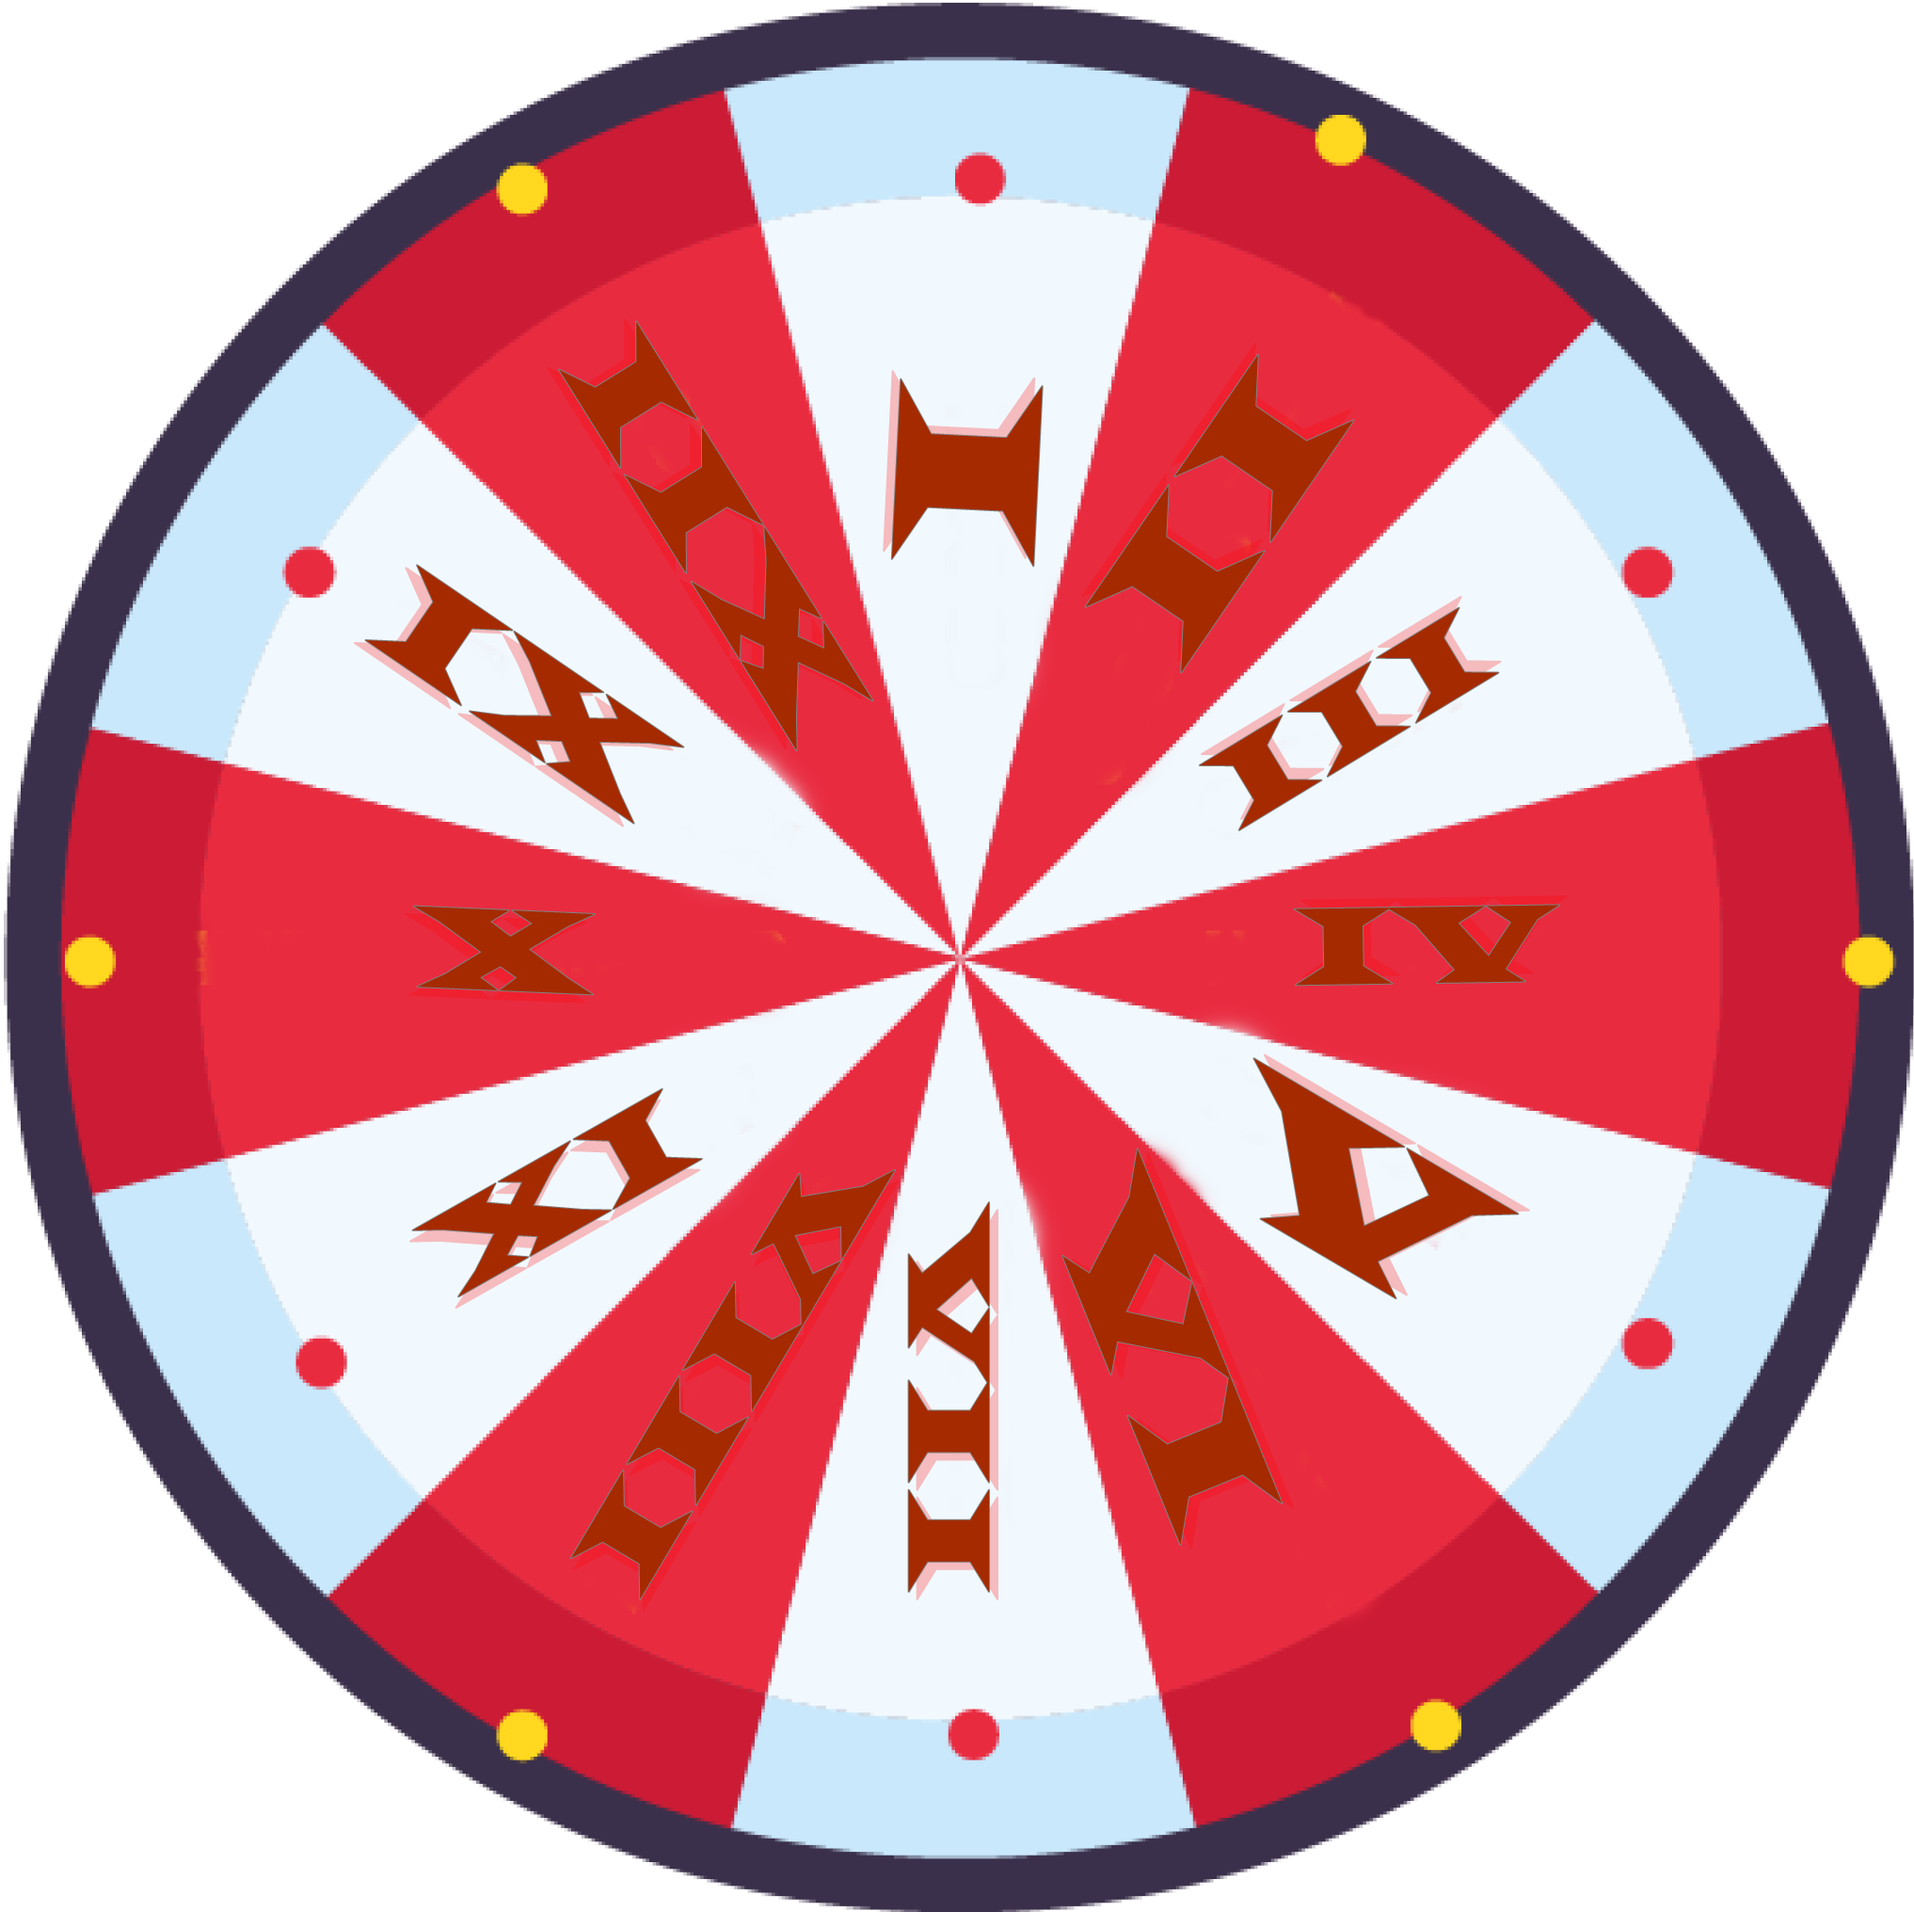
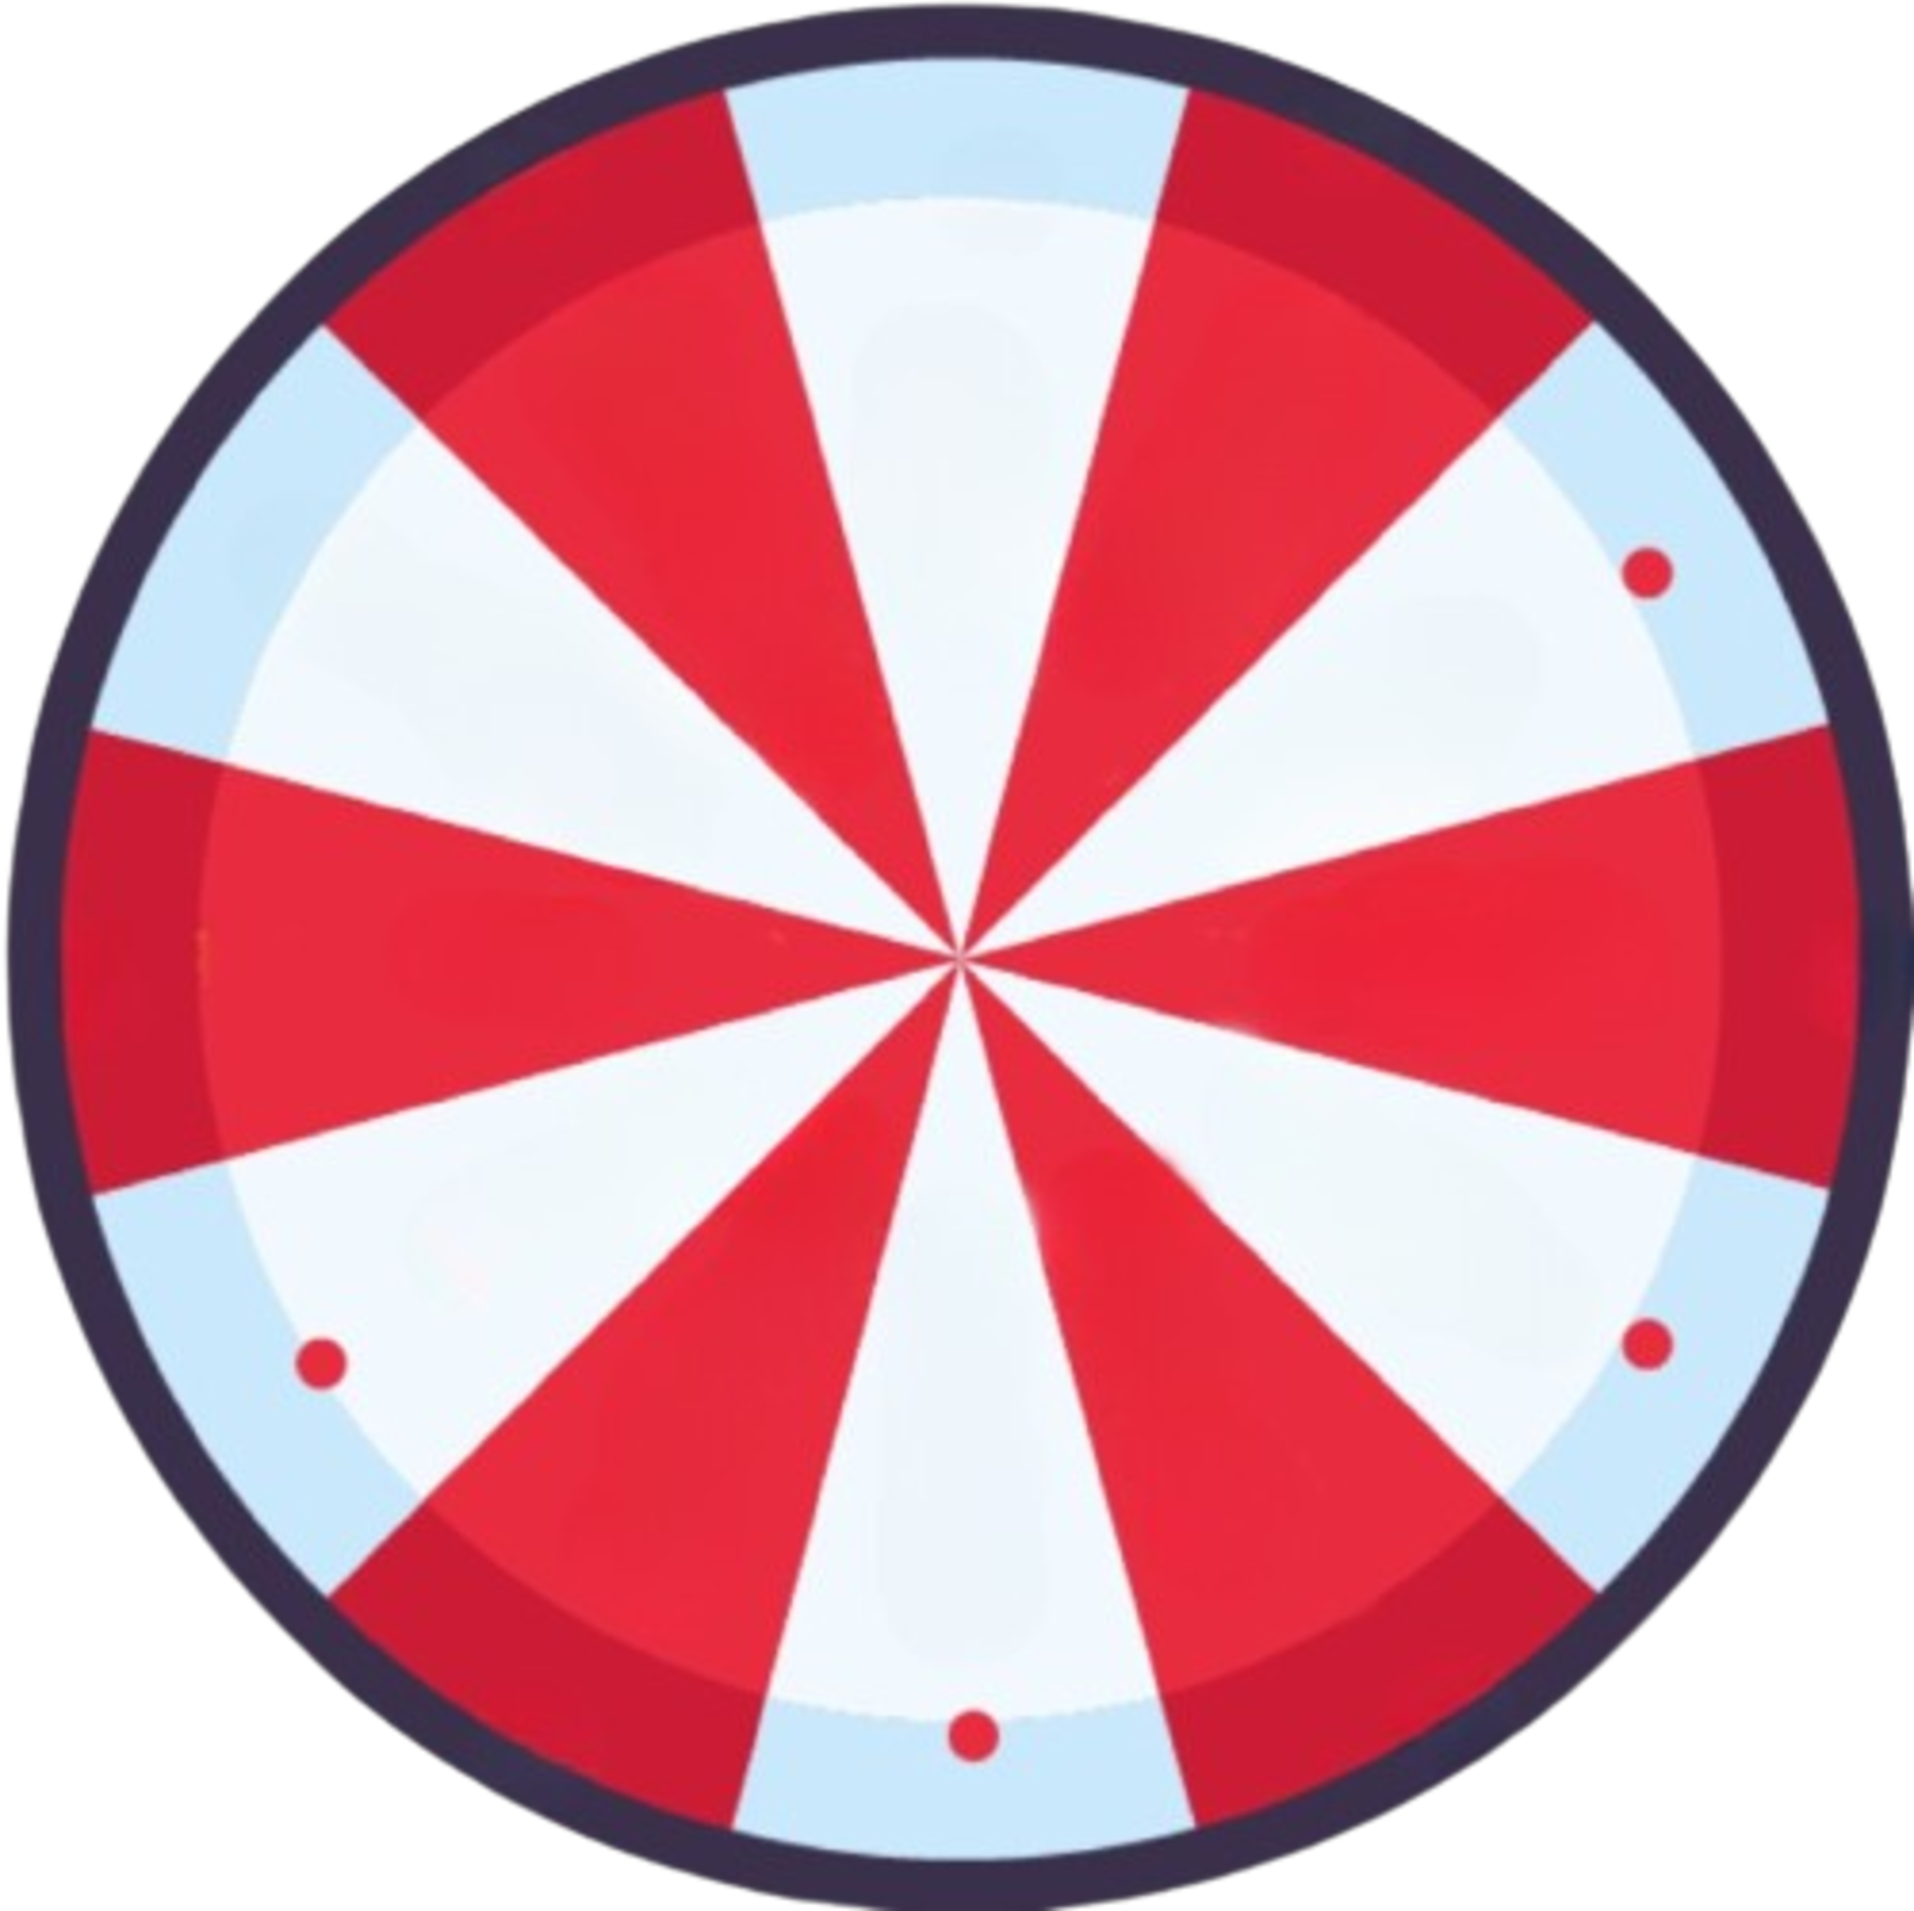
christmasy

diff --git a/templates/wheel.html b/templates/wheel.html
@@ -115,7 +115,7 @@ function create(){
         align : "center",
         color : "red",
     }
-    this.game_text = this.add.text(50,750,"Know who you gonna secretly gift",font_style);
+    this.game_text = this.add.text(50, 750, "🌟✨ click santa and let fate reveal 🎅🤶",font_style);
     
     
     

diff --git a/app.py b/app.py
@@ -125,50 +125,6 @@ def wheel():
     num_segments = len(users)
     return render_template('wheel.html', users=users_data, num_segments=num_segments)
 
-@app.route('/spin_wheel', methods=['POST'])
-@login_required
-def spin_wheel():
-    selected_user_id = spin_the_wheel(current_user.id)
-
-    if selected_user_id is not None:
-        try:
-            # Check if the selected person has already been chosen
-            if Pairing.query.filter_by(chooser_id=current_user.id).first():
-                flash('You have already made a selection. Please wait for others.', 'error')
-            else:
-                # Update the database with the new Secret Santa pairing
-                new_pairing = Pairing(chooser_id=current_user.id, chosen_id=selected_user_id)
-                db.session.add(new_pairing)
-                db.session.commit()
-                flash(f'You selected {User.query.get(selected_user_id).name}!', 'success')
-        except Exception as e:
-            db.session.rollback()
-            logging.error(f"Error during database commit: {e}")
-        finally:
-            db.session.remove()
-    else:
-        # Handle the case when there is only one user
-        # Display a message or redirect as needed
-        flash('Not enough users for Secret Santa. Please invite more participants.', 'error')
-
-    return redirect(url_for('wheel'))
-
-def spin_the_wheel(chooser_id):
-    available_users = User.query.filter(User.id != chooser_id).all()
-
-    # Check if the chooser has already chosen someone
-    chosen_pairing = Pairing.query.filter_by(chooser_id=chooser_id).first()
-    if chosen_pairing:
-        available_users = [user for user in available_users if user.id != chosen_pairing.chosen_id]
-
-    # Check if there are at least two available users
-    if len(available_users) < 2:
-        flash('Not enough users for Secret Santa. Please invite more participants.', 'error')
-        return None  # or handle the situation in another way
-
-    chosen_user = random.choice(available_users)
-    return chosen_user.id
-
 if __name__ == '__main__':
     with app.app_context():
         db.create_all()
